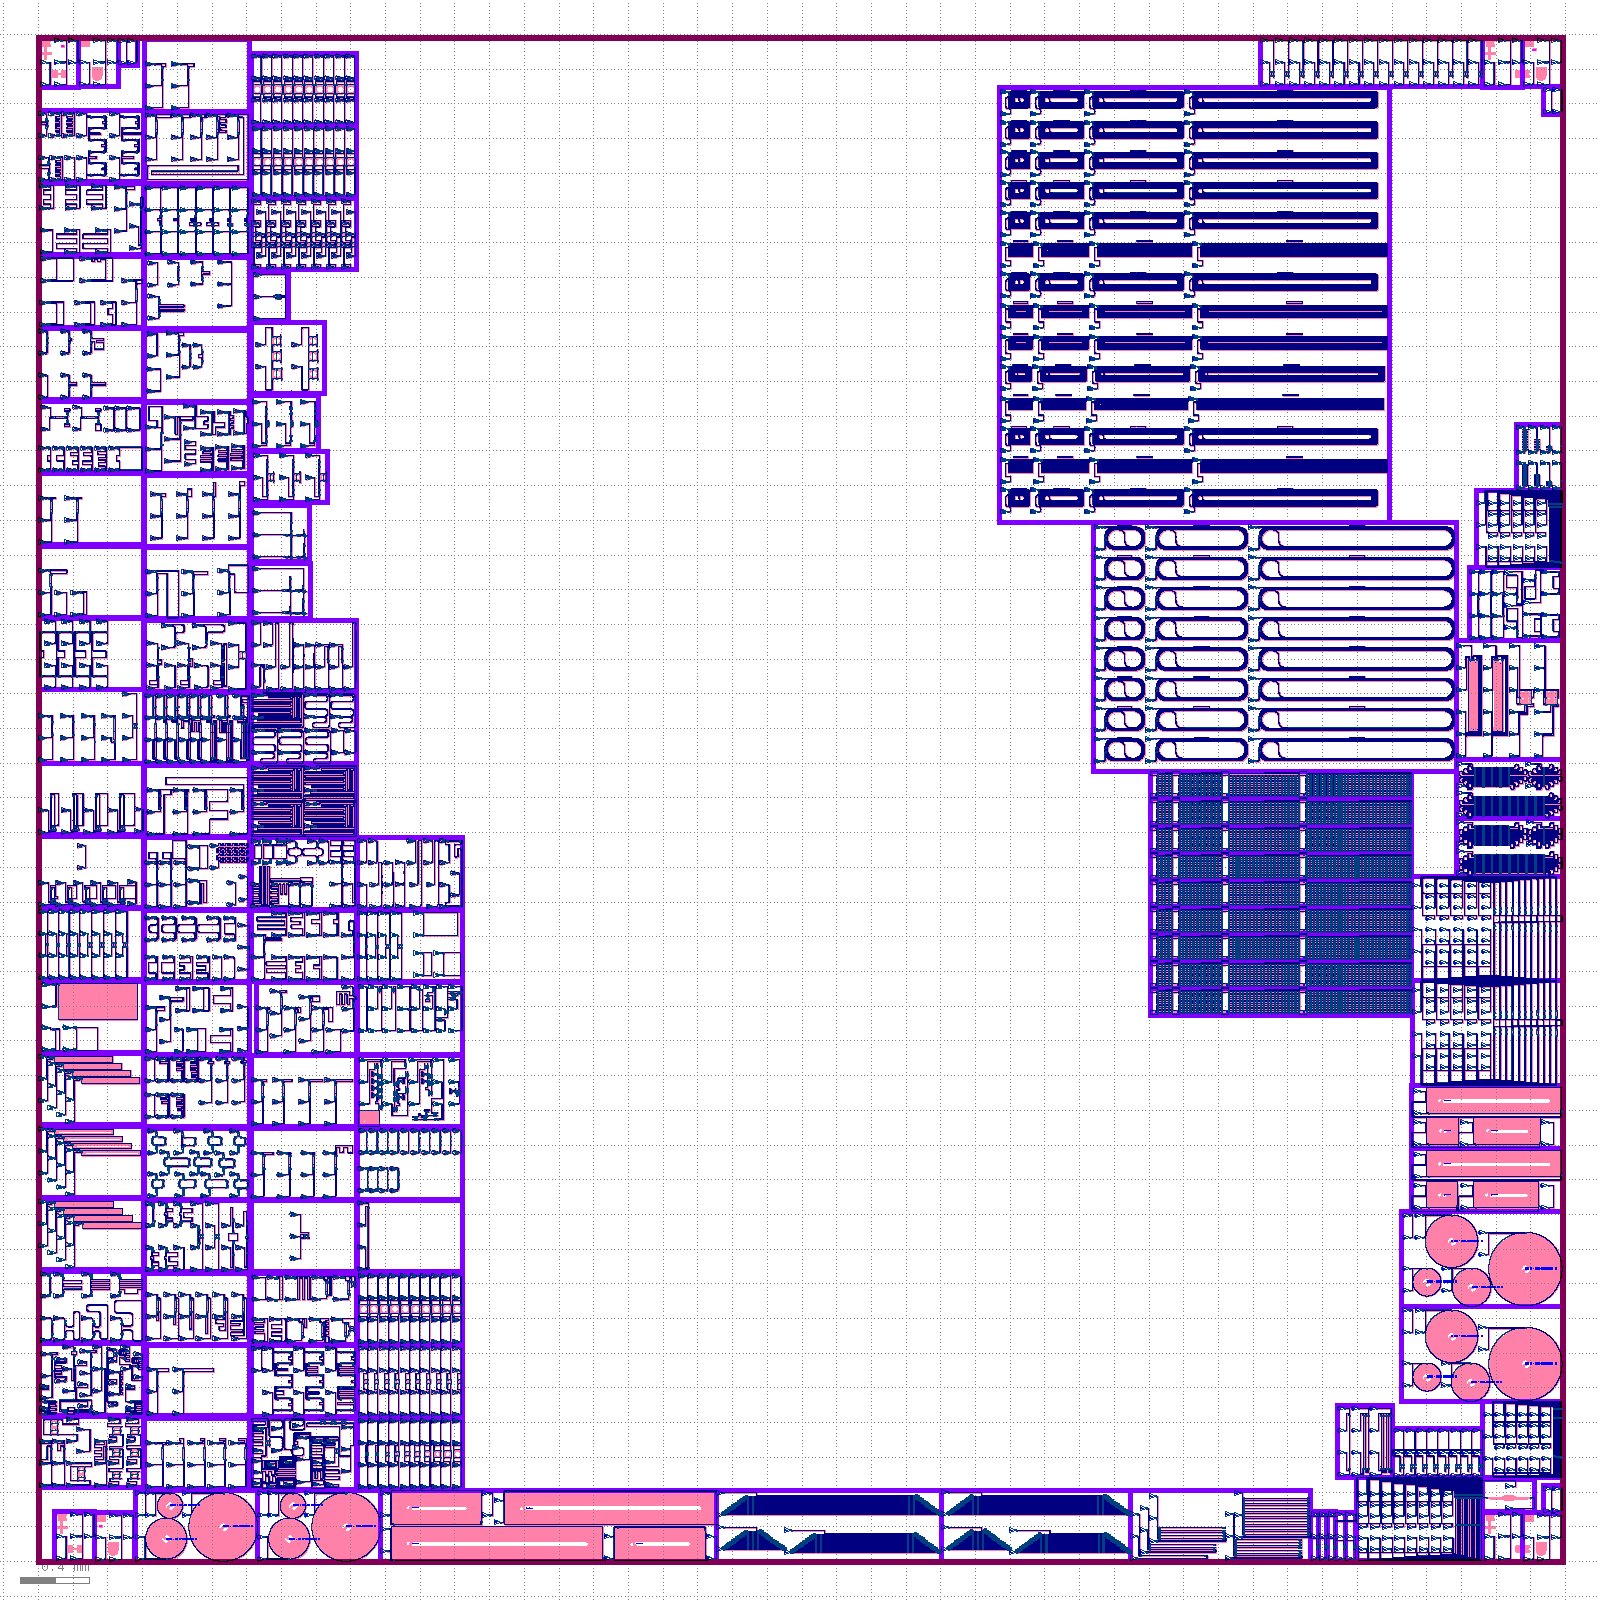
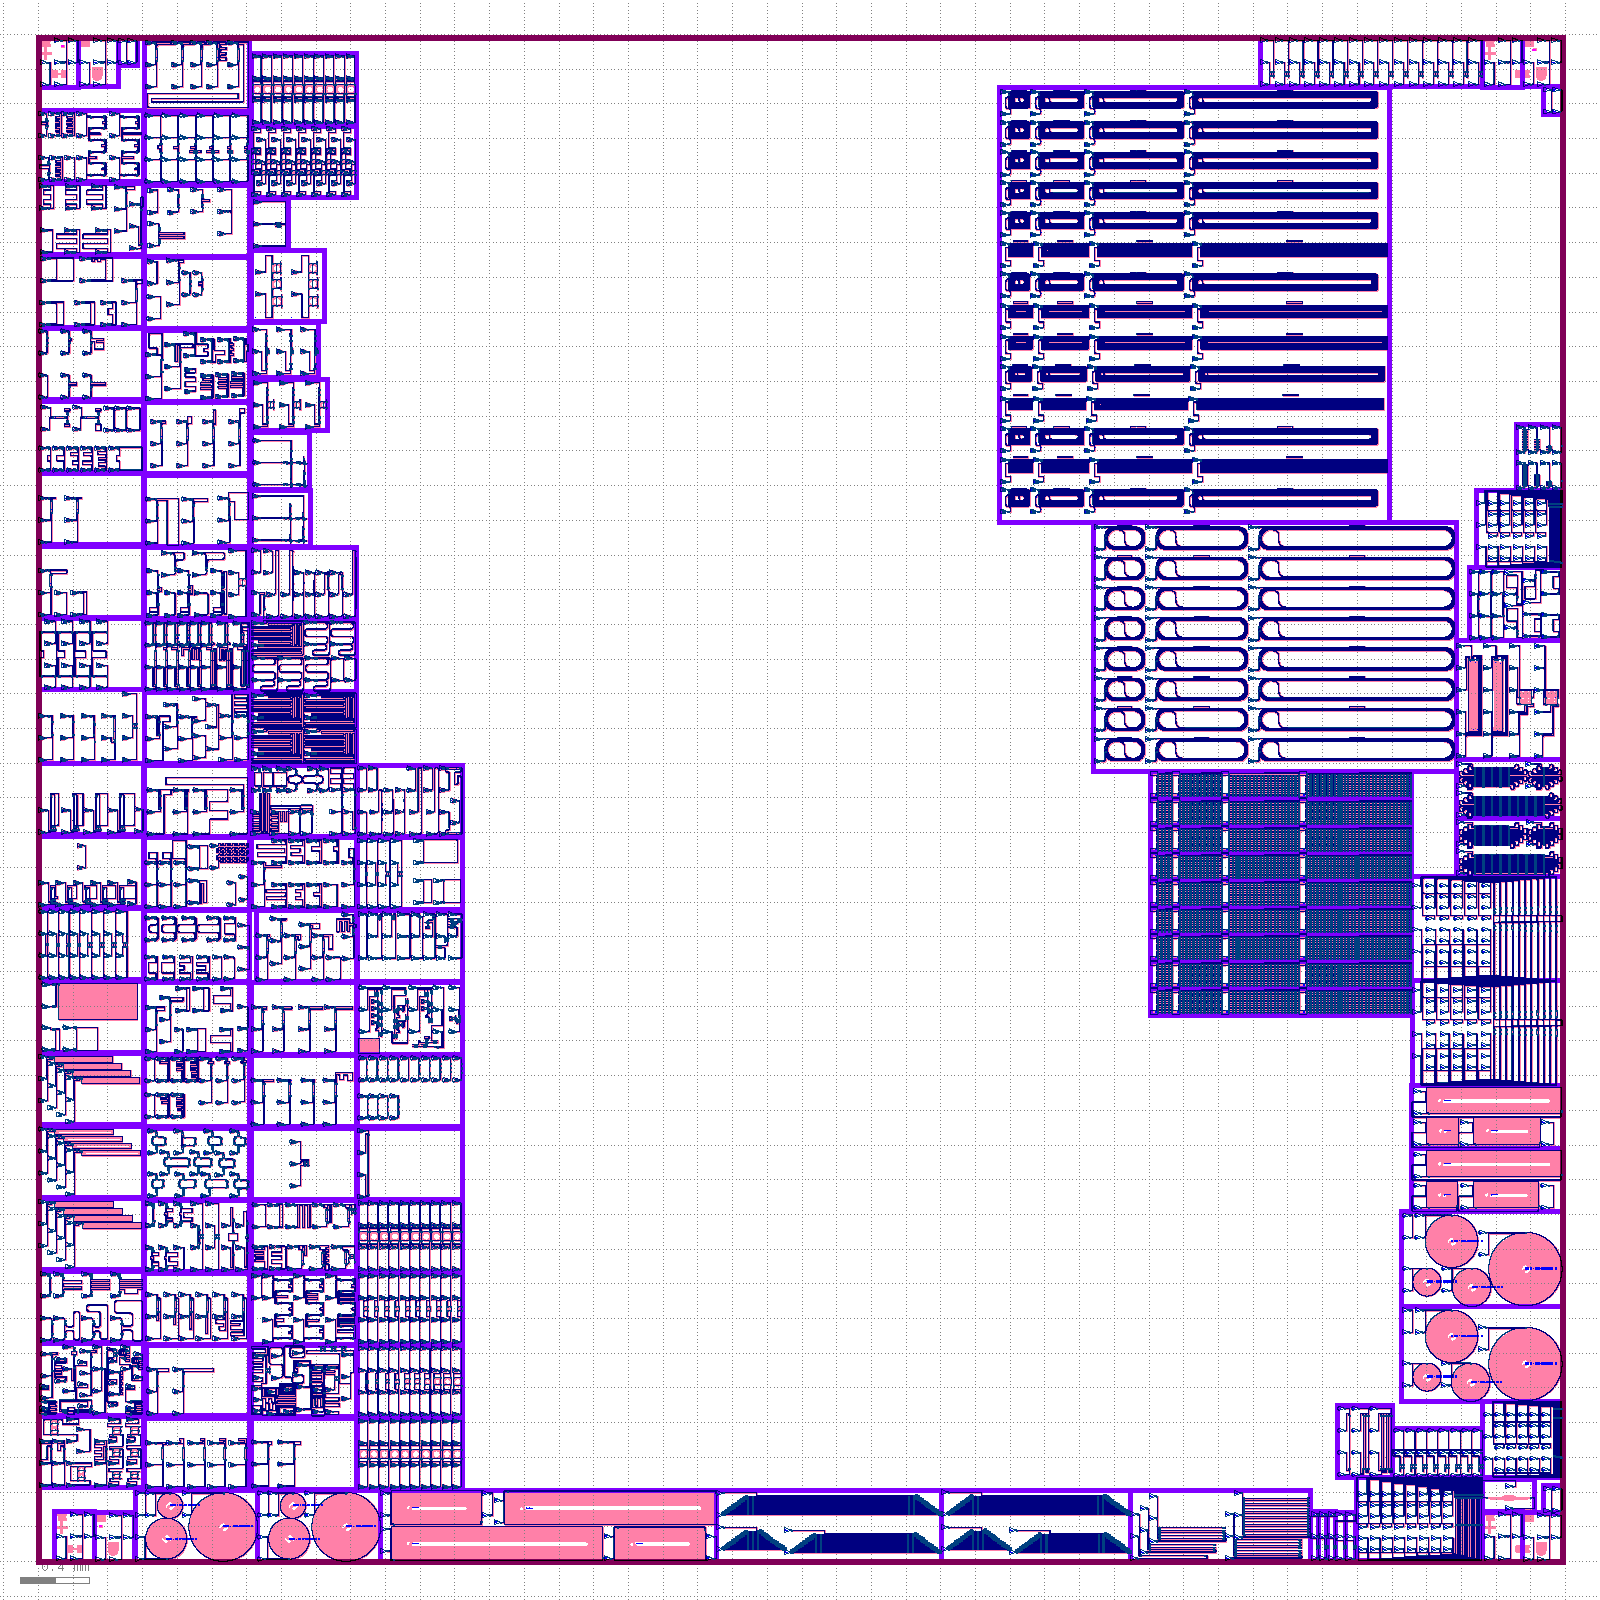
Aggregation layout: https://github.com/SiEPIC/openEBL-2026-05/actions/runs/25872082931/artifacts/6999342255

Changed region(s): [[0.0938, 0.0, 0.3125, 0.9375]]

diff --git a/README.md b/README.md
@@ -91,5 +91,5 @@ Will be added here.
 
 Click on the following link to download the EBeam.oas merged layout file:
 <!-- start-link -->
-https://github.com/SiEPIC/openEBL-2026-05/actions/runs/25863240919/artifacts/6995642789
+https://github.com/SiEPIC/openEBL-2026-05/actions/runs/25872082931/artifacts/6999342255
 <!-- end-link -->